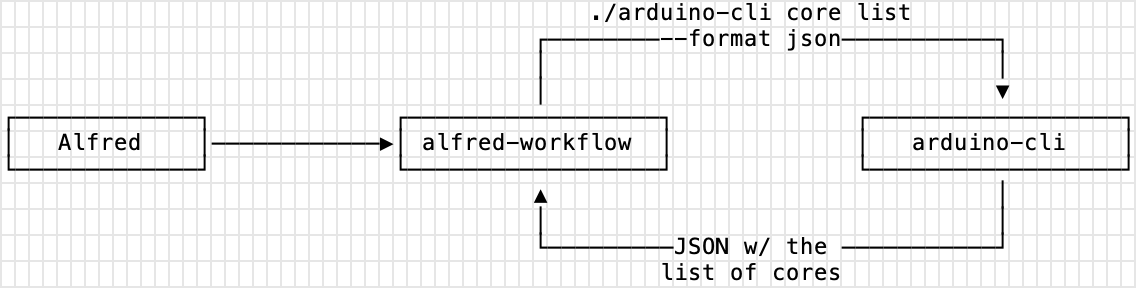
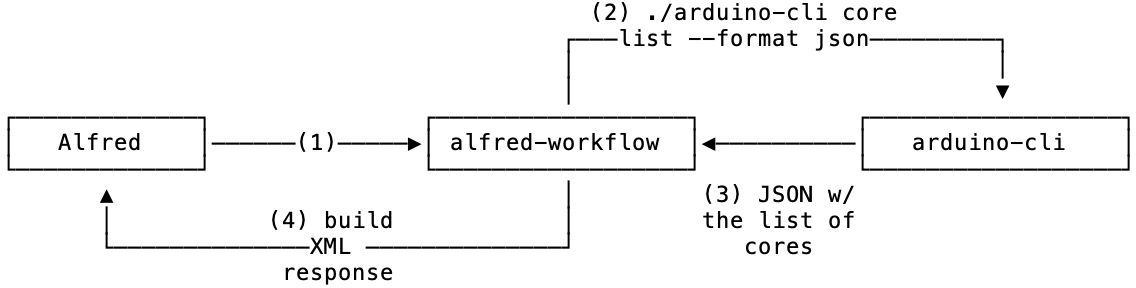
Edit the final sections

Changed region(s): [[0.0, 0.0, 1.0, 1.0]]

diff --git a/content/post/alfred-workflow.md b/content/post/alfred-workflow.md
@@ -5,11 +5,12 @@ draft: true
 ---
 
 
- ## Automate all the things
- 
+## Automate all the things
+
 ### A story about friction and wasted time
 
 There are a lot of big and small tasks we perform on our computers every single day. Even when they are simple, they sometimes carry a tiny amount of friction and always require time to complete. If you just do them once, there is no big deal. But, often, we do them over and over again, day in and day out, so their cumulative cost adds up into a not trivial amount.
+
 
 ### 🤨 Hey, I'm pretty skeptical, please give me something more tangible
 
@@ -26,11 +27,12 @@ For example, when I type:
 
 #### The Raw Numbers
 
-According to TextExpander, in the last 40 days, I saved **47 minutes** just expanding abbreviations into the text instead of typing it on my keyboard.
+According to TextExpander, in the last 50 days, I saved **47 minutes** just expanding abbreviations into the text instead of typing it on my keyboard.
 
 ![TextExpander Stats](../../static/images/textexpander-stats.png)
 
 It might or might not feel like a big deal, but actually, I saved time AND removed friction from my workflow. And every time a expand a multiple words text or a template, I feel *really* good.
+
 
 #### But TextExpander is not for developers!
 
@@ -38,7 +40,7 @@ I started with TextExpander because it is kind enough to give us the numbers, bu
 
 
  ## What is Alfred?
- 
+
  ### One application to launch them all
 
 [Alfred](https://www.alfredapp.com) is a desktop [application launcher](https://en.wikipedia.org/wiki/Comparison_of_desktop_application_launchers) for macOS.
@@ -46,6 +48,7 @@ I started with TextExpander because it is kind enough to give us the numbers, bu
 It's not the only one: there are a good number of launchers for macOS: [LaunchBar](https://www.google.it/search?q=launchbar), the venerable [Quicksilver](https://qsapp.com) and the built-in [Spotlight](https://en.wikipedia.org/wiki/Spotlight_(software)) from Apple. 
 
 Alfred is my favorite.
+
 
 ### Features
 
@@ -56,6 +59,7 @@ You can use Alfred to launch applications, perform simple calculations, lookup l
 The already mentioned features can be a convenient and useful tool, but the most powerful and impressive stuff comes out of the Powerpack if you have some development skills.
 
 If you're willing to [pay £29.00](https://www.alfredapp.com/shop/), you'll get the real value out of it.
+
 
 ### 💰⚡ The Powerpack
 
@@ -88,6 +92,7 @@ There is probably one framework to build Alfred workflows for every popular lang
 
 Over the last few months, I created multiple workflows to scratch an itch and solve practical problems, and it's been delightful.
 
+
  ## Example: ClasseViva
 
 [ClasseViva](https://web.spaggiari.eu/sdf/app/default/cvv.php?vista=scheda_prodotto) is the electronic class register used by a lot of schools here in Italy. 
@@ -111,6 +116,7 @@ An Alfred workflow is perfect for this kind of stuff.
 
 ![Alfred Workflow Arduino CLI](../../static/images/alfred-arduino-cli.gif)
 
+
 ### Source code
 
 You can browse the final project by visiting https://github.com/zmoog/alfred-arduino-cli/.
@@ -118,42 +124,44 @@ You can browse the final project by visiting https://github.com/zmoog/alfred-ard
 
 ### Are you on Linux?
 
-You can give https://github.com/umbynos/arduino_cli a try; it's built by my dear teammate and friend [@umbynos](https://github.com/umbynos/).
+If you're not on Mac, give https://github.com/umbynos/arduino_cli a try; it's a [Python plugin](https://github.com/albertlauncher/plugins/blob/master/python/README.md) built by my dear teammate and friend [@umbynos](https://github.com/umbynos/) for the [Albert](https://albertlauncher.github.io) launcher.
+
 
 ### High-level overview
+Let's get a general idea about how workflows work in Alfred, using this as an example.
 
-When you type the keyword on Alfred then it:
+When you type the keyword on Alfred, then it:
 
-1. triggers the workflow
-2. the workflow executes the `arduino-cli` setting the output to JSON format
-3. when the `arduino-cli` is finished, the workflow parses the output and buid the response and return it to the Alfred core.
+1. Alfred triggers the workflow.
+2. The workflow executes the `arduino-cli` file with the input prepared by the workflow.
+3. the `arduino-cli` runs the command and writes the result to the standard output using the JSON format.
+4. When the `arduino-cli` finishes, the workflow parses the JSON output and builds the response to return to the Alfred core.
 
 ![Alfred Workflow Arduino CLI](../../static/images/alfred-arduino-cli.png)
 
 
-The Arduino CLI workflow runs the `arduino-cli.py` file using the Python interpreter with a defined set of commands.
-
-https://www.deanishe.net/alfred-workflow/tutorial_1.html
+Check [arduino-cli.py](https://github.com/zmoog/alfred-arduino-cli/blob/main/arduino-cli.py) out to see how the Arduino CLI workflow has been implemented.
 
 
 ### How to Create a new Workflow
 
-If you want to start creating your own workflows in Python using Alfred-Workflows, then your best option is to start with the great  [Tutorial Part 1: Creating a Basic Pinboard Workflow](https://www.deanishe.net/alfred-workflow/tutorial_1.html).
+If you want to start creating your own workflows in Python using Alfred-Workflows, your best option is to start with the great  [Tutorial Part 1: Creating a Basic Pinboard Workflow](https://www.deanishe.net/alfred-workflow/tutorial_1.html).
 
-This short and focused tutorial explan how to build a simple Pinboard workflow from scratch.
+This short and focused tutorial explains how to build a simple Pinboard workflow from scratch.
 
 
 ### 1. Trigger the Workflow
 
-I used a script filter to trigger the workflow typing `cli` on Alfred.
+I used a script filter to trigger the workflow by typing `cli` on Alfred.
 
 ![Alfred Workflow Arduino CLI Panel](../../static/images/alfred-arduini-cli-panel.png)
 
-When I select one of the actions available, Alfred will run the Python script `python arduino-cli.py core list {query}` for me behind the scene, replacing `{query}` with the text I typed, and the waiting the script to execute and return the response XML.
+When I select one of the actions available, Alfred will run the Python script `python arduino-cli.py core list {query}` behind the scene, replacing `{query}` with the text I typed and then waiting for the script to execute and return the response XML.
+
 
 ### 2. The Workflow Executes
 
-The script is a regular Python script you can also run on the terminal to testing and troubleshooting.
+The script is a regular Python script you can also run on the terminal for testing and troubleshooting.
 
 ```python
 def main(wf):
@@ -182,25 +190,27 @@ if __name__ == u"__main__":
 
 ```
 
-The Alfred-Workflow library does the heavy duty of offering a nice API do produce the XML Alfred requires to work with workflows, and a lot of useful goodies, for example.
+The Alfred-Workflow library does the heavy-duty of offering a nice API to indirectly produce the XML Alfred requires to work with workflows, plus many useful goodies.
 
  * Fuzzy, Alfred-like search/filtering with diacritic folding
  * Simple, persistent settings
  * Simple, auto-expiring data caching
- * Keychain support for secure storage (and syncing) of passwords, API keys etc.
- * Lightweight web API with requests-like interface
+ * Keychain support for secure storage (and syncing) of passwords, API keys, etc.
+ * Lightweight web API with a requests-like interface
 
-and more, check out the [full list of features](https://www.deanishe.net/alfred-workflow/index.html#features).
+And more, check out the [full list of features](https://www.deanishe.net/alfred-workflow/index.html#features).
 
-### 3. Run the actual arduin-cli binary and parse the output
+
+### 3. Run the actual arduin-cli binary
 
 The real work is performed by the [Arduino CLI](https://github.com/arduino/arduino-cli).
 
-Here I am using [Invoke](http://www.pyinvoke.org/installing.html) to run the binary, collect and parse the JSON returned in the standard output.
+The workflow uses [Invoke](http://www.pyinvoke.org/installing.html) to run the CLI binary, collect and parse the JSON returned in the standard output.
+
 
 #### Invoke
 
-To keep the workflow as simple as possible I used the `--format json` available for most of the CLI commands. The result is returned as a nice JSON that can be easily parsed using the builtin `json` module.
+To keep the workflow as simple as possible, I used the `--format json` option available for most CLI commands. The result is returned as a nice JSON that can be easily parsed using the built-in `json` module.
 
 ```Python
 def run_command(cmd):
@@ -215,9 +225,10 @@ def run_command(cmd):
     return json.loads(result.stdout)
 ```
 
-#### Build a response for Alfred
 
-This the JSON response parse into a Python dictionary, all I need to to is build the items for Alfred.
+### 4. Build a response for Alfred
+
+Finally, the workflow uses the CLI data to build the Alfred items that drive its UI.
 
 ```python
     def handle_version_none(self):
@@ -257,13 +268,20 @@ And finally, when the Python script is done, this is what Alfred get back:
 ```
 
 
-
  ## Conclusion
 
-[Is it worth the time](https://xkcd.com/1205/)? Yep! 
+If you spend hours a day sitting in front of a computer for work, it's hard to imagine you don't have a small activity you have to repeat over and over that could benefit some automation.
 
-Start small with something you need to "fix", like removing the friction of opening a site 1-3 times a day to check and information, generate am UUID on the fly or a password with just three keystrokes.
+[Is it worth the time](https://xkcd.com/1205/)?
+
+The next time you feel that impalpable sense of discomfort for having to repeat a tedious task one more time, well, think about if you can automate it using your language of choice. Build it and then make it super convenient to run from the slick Alfred UI, turning it into an Alfred Workflow.
+
+Start small with something you need to "fix", like opening the same site 1-3 times a day to check some information you need or generate UUIDs on the fly, or a password, all with less than a handful of keystrokes.
+
+And have fun along the way.
+
 
 ## Music
+
 This post has been written listening to [Black Market](https://open.spotify.com/album/4COZn5okauxP5luXkwEPLd?si=6aSBpgopSNCpm8w9OgGy6w) by [Weather Report](https://open.spotify.com/artist/162DCkd8aDKwvjBb74Gu8b?si=6Ybw6IUlQbuLfxD1M6d2Tw).
   
